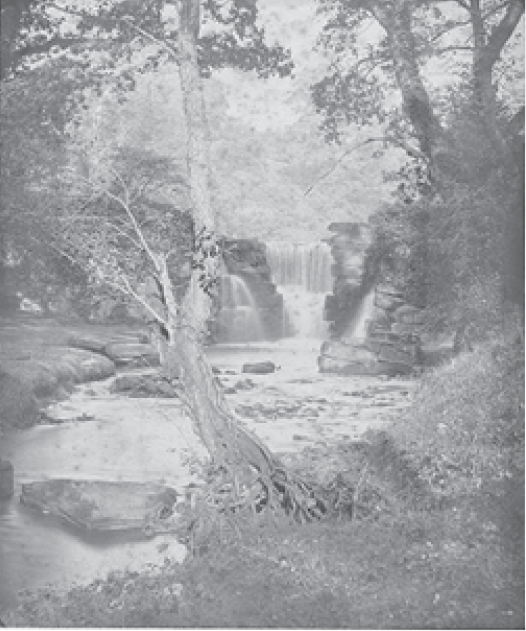
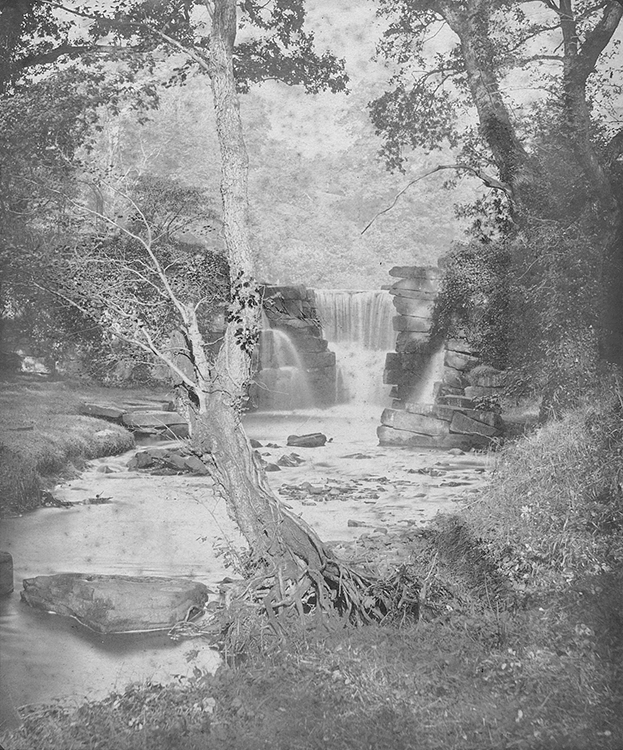
CSS improvements and fixes
Added custom font family to main copy; fixed padding issues and
superscript and navigation arrow line heights; replaced a couple images
for quality; restyled cover background image to draw from single image
and reposition based on screen.

diff --git a/index.html b/index.html
@@ -19,6 +19,7 @@
   
   <link rel="stylesheet" media="screen" href="themes/style/book.css">
   <link href='http://fonts.googleapis.com/css?family=Josefin+Sans:300,600' rel='stylesheet' type='text/css'>
+  <link href='http://fonts.googleapis.com/css?family=Tinos:400,400italic' rel='stylesheet' type='text/css'>
   
   <!-- Custom CSS for printing -->
   <link rel="stylesheet" media="print" href="themes/style/bookprint.css">
@@ -35,9 +36,11 @@
   <div class="deck-container">
 
 	<!-- Getty Pubs demo site snippet -->
+    <a href="https://github.com/gettypubs/inventionofphoto-deck.js" target="_blank">
     <div class="demo-banner">
-      <p><a href="https://github.com/gettypubs/inventionofphoto-deck.js" target="_blank">DEMO SITE</a><span class="bigscreenonly"> &#8212; Deck.js as a digital publishing tool &#8212; <a href="https://github.com/gettypubs/inventionofphoto-deck.js" target="_blank">https://github.com/gettypubs/inventionofphoto-deck.js</a> &#8212; Getty Publications</span></p>
+      <p>DEMO SITE<span class="bigscreenonly"> &#8212; https://github.com/gettypubs/inventionofphoto-deck.js</span><!--  &#8212; Getty Publications</span> --></p>
     </div>
+    </a>
 
     <!-- Begin slides -->
 
@@ -91,6 +94,11 @@
 				<img src="images/15097.png" alt="15097.png" />
 				<p class="figurenumber">figure 2</p>
 				<p>Julia Margaret Cameron (British, born India, 1815&#8211;1879), Sir John F. W. Herschel, 1867. Carbon print, 29.8 &#215; 23.2 cm (11 3/4 &#215; 9 1/8 in.). Los Angeles, J. Paul Getty Museum, 84.XM.349.4</p>
+			</div>
+			<div class="figure">
+				<img src="images/Queen-Victoria-Fig_03r2_73C.png" alt="Queen-Victoria-Fig_03r2_73C.png" />
+				<p class="figurenumber">figure 3</p>
+				<p>Antoine Claudet (French, 1797&#8211;1867), Portrait of William Henry Fox Talbot, ca. 1844. Daguerreotype, 9.5 &#215; 8.4 cm (3 3/4 &#215; 3 5/16 in.). Bradford, National Media Museum, 2003-5001/2/20882</p>
 			</div>
 			<p>Herschel&#8217;s work with &#8220;hypo,&#8221; Talbot discovered, did indeed answer &#8220;perfectly the end&#8221; and was a vital contribution to the progress of this as yet unnamed art. Moreover, in contrast to Daguerre, who was preoccupied with secrecy, Herschel had no reservations about sharing his discovery of the fixing process. He permitted Talbot to make the findings public, with the result that following their publication by the French Academy of Sciences, hypo was picked up by Daguerre himself.</span><a href="#note15" id="marker15"><sup>15</sup></a> Today, Herschel is also credited with coming up with the umbrella term used to describe the work of both Daguerre and Talbot&#8212;</span><em>photography</em>&#8212;a word that would be formalized by Talbot a couple of years later in a public letter to the </span><em>Literary Gazette</em>. And in May 1839, just three months after Talbot&#8217;s visit to Slough, Herschel was one of the few British scientists invited by Arago to go to Paris to see what it was that Daguerre had produced.</span></p>
 			<p>It&#8217;s hard, then, to imagine that when Talbot received Herschel&#8217;s letter from France he could have been as enthused as his friend was by the evident superiority of the daguerreotype. But one thing, at least, was finally clear to everybody: the two processes, English and French, were very different.</p>
@@ -153,11 +161,6 @@
 			</blockquote>
 			<p>Lady Elisabeth was, of course, inclined to pursue the opening: &#8220;I understand the Queen being no Botanist admires </span><em>most</em> the riband you sent her. Therefore I have [a] mind to send you a bit of beautiful Point Lace which I think would have great success &#8212; shall I? I wish you would send me some more to lay on my table. Louisa has a vast number of Morning visitors expressly to see them.&#8221;</span><a href="#note32" id="marker32"><sup>32</sup></a></p>
 			<p>By April 1839 the circle of interested persons had expanded to include not only the queen but also European royalty. Lady Elisabeth could hardly contain herself with the news that a &#8220;Dr Hamel&#8221; from Hamburg had been in touch with her to get some images to send to Russia &#8220;for the Emperor&#8217;s second son, a very scientific young Man. He wishes to lay some before the Czarowitch.&#8221;</span><a href="#note33" id="marker33"><sup>33</sup></a> And Queen Victoria&#8217;s interest in Talbot&#8217;s work continued; indeed, Elizabeth Heyert makes the appealing claim that during the queen&#8217;s proposal of marriage to Prince Albert on October 15, 1839, &#8220;to allay her nervousness, she talked to him first about Daguerre&#8217;s newly published invention.&#8221;</span><a href="#note34" id="marker34"><sup>34</sup></a> According to Victoria&#8217;s diary, in March 1842 her husband posed for his own daguerreotype while the couple was staying in Brighton (see fig. 39).</span><a href="#note35" id="marker35"><sup>35</sup></a> In November 1843, Lady Elisabeth wrote to Talbot that her daughter Caroline, his half sister, now a lady-in-waiting at the palace, had &#8220;shewed those little Talbotypes you sent her lately to the Queen Sunday Evg, who was so delighted with them that C. thought herself obliged to offer them, &#38; C. is to stick them into the Album you gave the Q. Her majesty sent for her magnifying glass to inspect them.&#8221;</span><a href="#note36" id="marker36"><sup>36</sup></a></p>
-			<div class="figure">
-				<img src="images/Queen-Victoria-Fig_03r2_73C.png" alt="Queen-Victoria-Fig_03r2_73C.png" />
-				<p class="figurenumber">figure 3</p>
-				<p>Antoine Claudet (French, 1797&#8211;1867), Portrait of William Henry Fox Talbot, ca. 1844. Daguerreotype, 9.5 &#215; 8.4 cm (3 3/4 &#215; 3 5/16 in.). Bradford, National Media Museum, 2003-5001/2/20882</p>
-			</div>
 			<p>Despite Lady Elisabeth&#8217;s triumph in her son&#8217;s successes with the palace, she was still inclined to focus on the lost opportunity of, first, securing a fortune through the invention and, second, claiming a place in history for the family name. When she learned, via the </span><em>Allgemeine Zeitung</em>, that a four-foot-long calotype had been made of &#8220;one of the most important documents of Modern times, the Treaty of Peace with the Emperor of China,&#8221; she was incensed. &#8220;One copy is ordered for the Queen, to be framed &#38; glazed &#38; hung up at Buckingham Palace,&#8221; she quoted from the paper in a letter to her son. &#8220;Why did not </span><em>you</em> do this for her Majesty?&#8221;</span><a href="#note37" id="marker37"><sup>37</sup></a></p>
 		</div>
     </section>

diff --git a/themes/style/book.css b/themes/style/book.css
@@ -1,15 +1,14 @@
 .deck-container {
-	font-family: "Helvetica Neue", sans-serif;
+	font-family: "Tinos", serif;
 	font-size: 1em;
 	color: #444;
 	line-height: 1.65em; }
 section.slide {
 	margin: 0 auto;
-	padding: 0 48px 0px;
-	width: 100%; }	
+	padding: 0px 48px; }	
 section.slide#cover {
-	background-image: url('../../images/16076_crop.jpg');
-	background-position: fixed;
+	background-image: url('../../images/16076.jpg');
+	background-position: bottom left;
 	background-size: cover;
 	background-repeat: no-repeat;
 	-webkit-background-size: cover;
@@ -18,12 +17,15 @@ section.slide#cover {
 	-moz-box-sizing: border-box;
 	box-sizing: border-box; }		
 .essaytext { 
+	font-size: 1.1em;
 	width: 50%;
 	min-width: 300px; 
 	margin: 10% 25%; }
 p {
 	margin: 0 0 1em 0; 
-	padding: 0; }	
+	padding: 0; }
+sup {
+	line-height: 0; }		
 blockquote {
 	margin-left: 2em; 
 	font-style: italic; }
@@ -52,7 +54,8 @@ h3 {
 	line-height: 1.5em; 
 	margin-bottom: 1em; }	
 h3#author {
-	color: #fff; }			
+	color: #fff;
+	font-size: 1.25em; }			
 .figure {
 	width: 70%;
 	margin: 1em 15%;
@@ -74,7 +77,7 @@ h3#author {
 .deck-prev-link, .deck-next-link {
 	position: fixed; 
 	background: #701e20;
-	line-height: 1.45em; }	
+	/* line-height: 1.45em;  */}	
 .deck-next-link {
 	right: 24px; }	
 .deck-prev-link {
@@ -107,6 +110,7 @@ h3#author {
 .deck-menu-link:link, .deck-menu-link:visited, .deck-menu-link:hover, .deck-menu-link:focus, .deck-menu-link:active {
 	color: #ccc; } 	
 .demo-banner {
+	font-family: monospace;
 	position: fixed;
 	z-index: 4;
 	top: 0;
@@ -116,8 +120,7 @@ h3#author {
 	text-align: center;
 	text-decoration: none;
 	color: #fff;
-	background: #0188ca;
-	font-size: .7em; }
+	background: #0188ca; }
 .demo-banner a {
 	color: #fff; }	
 ::-moz-selection {
@@ -138,7 +141,9 @@ h3#author {
 	
 @media only screen and (max-width:768px) {
 	section.slide {
-		padding: 2.5em 5% 0px 6%; }
+		padding: 2.5em .5em 0em 1em; }
+	section.slide#cover {
+		background-position: top left; }
 	.essaytext { 
 		width: 100%;
 		min-width: 0;
@@ -161,6 +166,7 @@ h3#author {
 	.smallscreenonly {
 		display: block; }		
 	#swipe {
+		text-shadow: 1px 1px #888;
 		float: right;
 		margin: 0;
 		padding: 0;  }						
